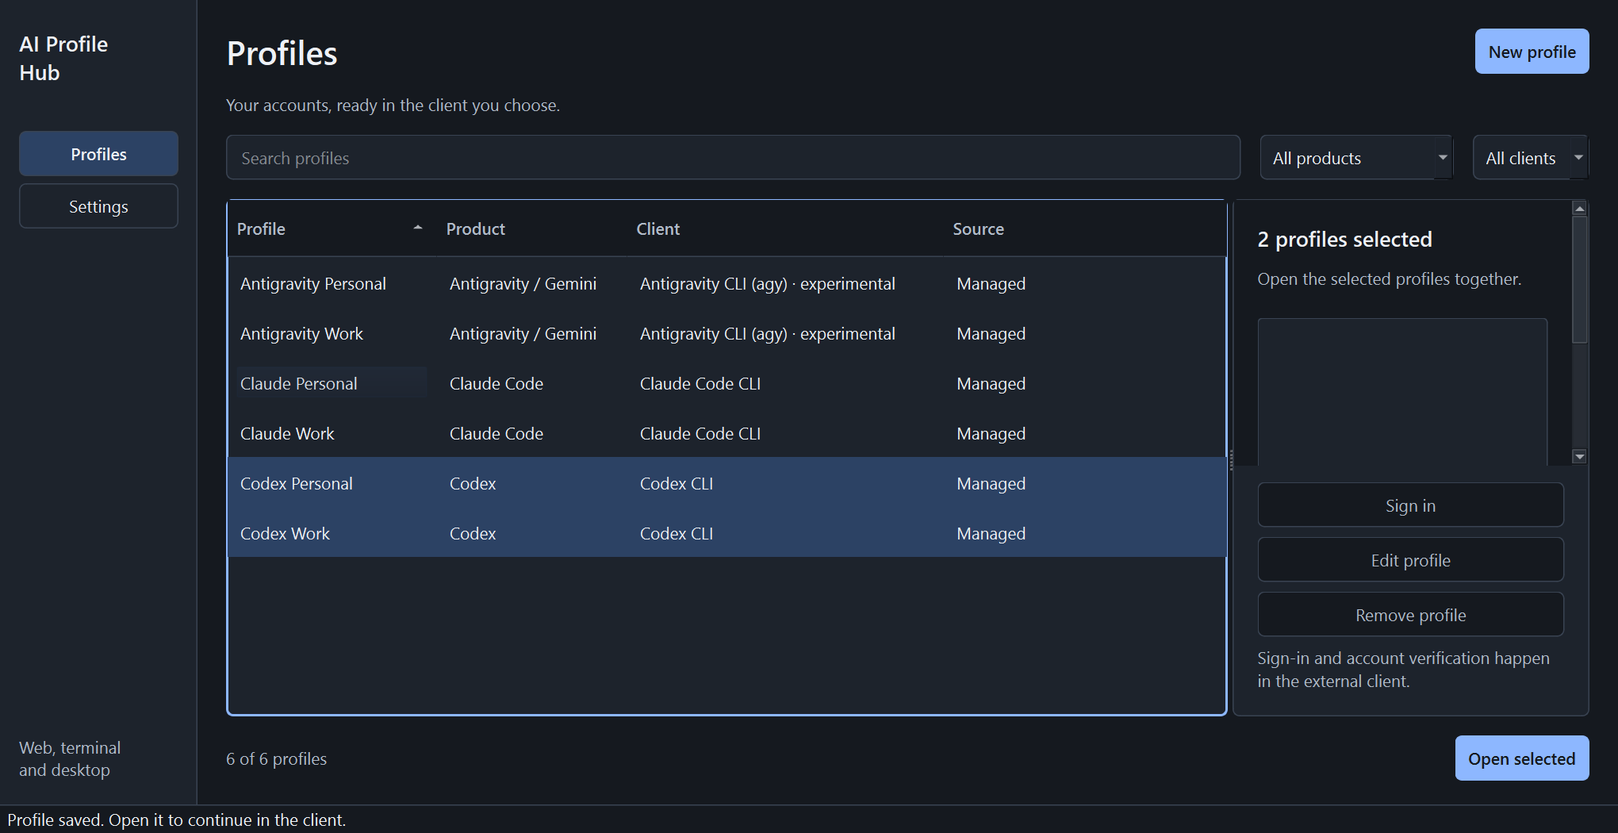
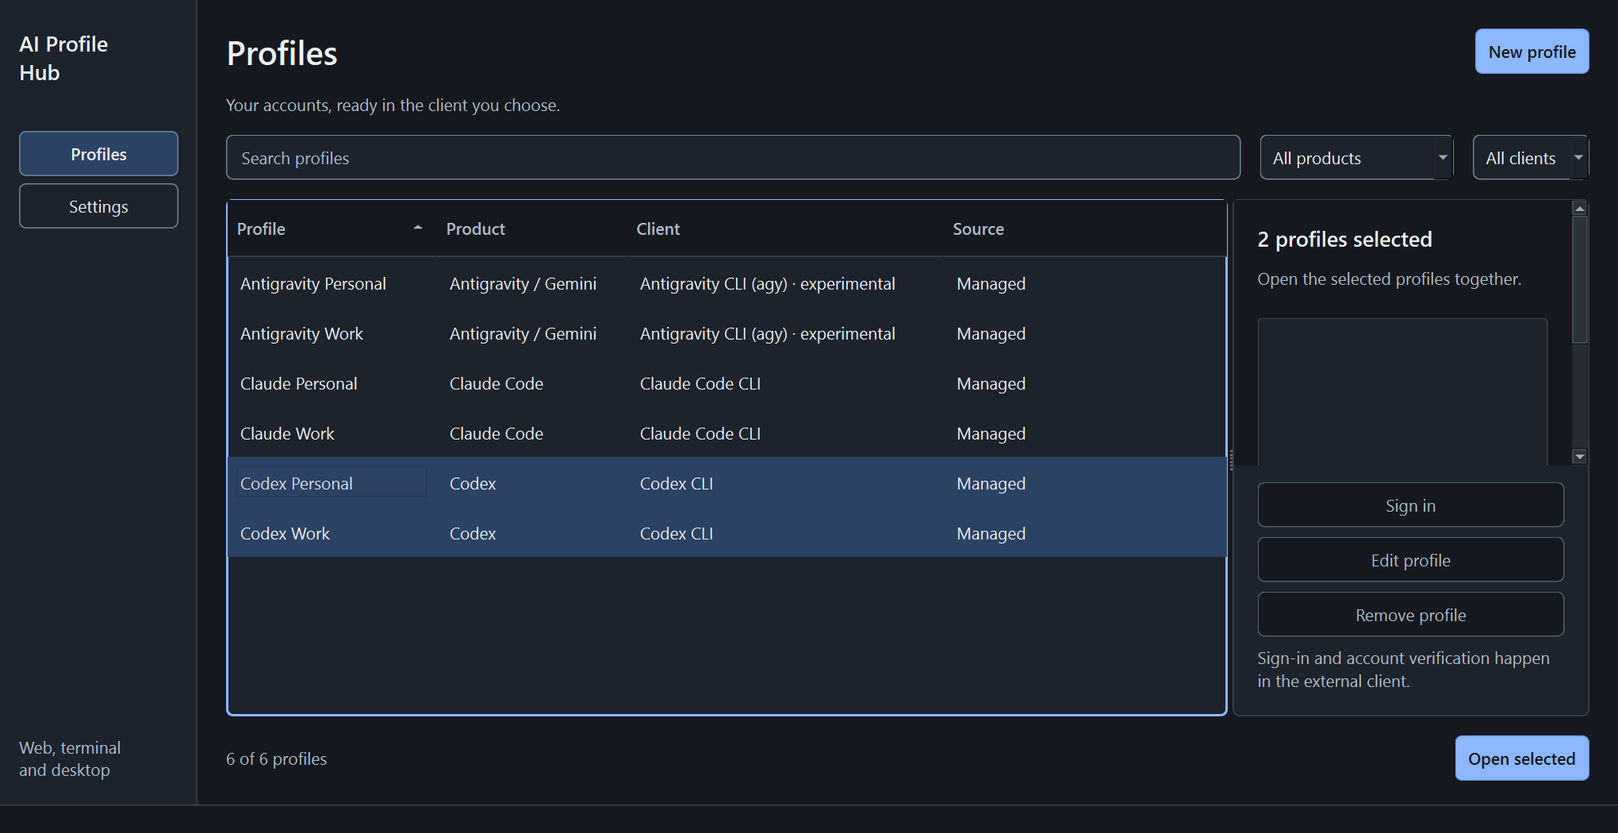
Align profile guides and refresh authentic screenshots

Changed region(s): [[0.0, 0.9752, 0.2162, 1.0], [0.1544, 0.1829, 0.2162, 0.2133]]

diff --git a/scripts/capture_ui.py b/scripts/capture_ui.py
@@ -27,6 +27,7 @@ EXAMPLES = (
 
 
 def capture(window, output, filename):
+    window.statusBar().clearMessage()
     QApplication.processEvents()
     if not window.grab().save(str(output / filename)):
         raise OSError(f'Could not save {filename}.')
@@ -83,11 +84,11 @@ def main():
                 selection.select(index, QItemSelectionModel.SelectionFlag.Select | QItemSelectionModel.SelectionFlag.Rows)
         if len(window.selection()) != 2:
             raise RuntimeError('Expected both Codex profiles to be selected.')
+        selection.setCurrentIndex(selection.selectedRows()[0], QItemSelectionModel.SelectionFlag.NoUpdate)
         capture(window, args.output, 'profiles-dark.png')
         overview_size = [window.width(), window.height()]
         window.show_settings()
         window.resize(1100, 520)
-        window.statusBar().clearMessage()
         capture(window, args.output, 'browser-settings-dark.png')
         (args.output / 'capture.json').write_text(json.dumps({
             'platform': sys.platform,

diff --git a/README.md b/README.md
@@ -1,8 +1,8 @@
 # AI Profile Hub
 
-AI Profile Hub is a desktop launcher for **Windows, macOS and Linux**. Create separate profiles for work and personal accounts in Anthropic's Claude Code, OpenAI's Codex and Google Antigravity / Gemini.
+AI Profile Hub is a desktop launcher for **Windows, macOS and Linux**. Use it to save and reopen work and personal profiles for Claude Code, Codex and Antigravity / Gemini. Pick a web, terminal or desktop client for each profile. You sign in and confirm the account in that client.
 
-![AI Profile Hub in Dark appearance with six saved profiles, one work and one personal profile for each of Claude Code, Codex and Antigravity.](docs/screenshots/profiles-dark.png)
+![AI Profile Hub in Dark appearance with six work and personal profiles. The two Codex profiles are selected.](docs/screenshots/profiles-dark.png)
 
 ## Quick start
 
@@ -28,30 +28,31 @@ On Windows you can double-click `run.cmd` after setup. On Linux, install the Qt 
 
 ## Set up two profiles
 
-Follow the [two-profile setup guide](docs/two-profiles.md) to create work and personal profiles for **Antigravity CLI**, **Codex CLI**, **Claude Code CLI** or a supported web client.
+Follow the [work and personal profile guide](docs/two-profiles.md) to create a pair for the same client and check both accounts after reopening them.
 
 ### Create and open any profile
 
-1. Choose **New profile**, pick a product and client, and enter a name such as **Work**. Under **Advanced settings**, leave the executable blank to let Hub find it, or set an absolute path for a terminal or desktop client. You can also set an existing working directory. Choose **Save profile**.
-2. Select the profile and choose **Open profile** or press Enter. For a web profile, sign in in the browser window that opens. For a terminal profile, choose **Sign in** or follow the client's sign-in instructions. The Codex CLI button uses device code authentication, which your account or workspace must allow. [Codex authentication](https://learn.chatgpt.com/docs/auth)
-3. For a desktop profile, close other instances of the same client before choosing **Sign in**. Verify the account in the new client window.
+1. In **Profiles**, choose **New profile**, select a product and client, and enter a name such as **Work**. For terminal and desktop clients, **Advanced settings** lets you set absolute paths for the executable and an existing working directory. Leave them blank for automatic detection and your home directory. Choose **Save profile**.
+2. Select the saved profile and choose **Open profile**, or press Enter when the list has focus. For a web profile, sign in in the browser window. For a terminal or desktop profile, select one row and choose **Sign in** in the profile details. Quit other instances of the same desktop client before starting its sign-in flow.
+3. Check the account or workspace in the client. After signing in, close the session and reopen it from Hub to check which account it kept.
 
 To open several profiles, hold Ctrl (Command on macOS) while selecting rows and choose **Open selected**.
 
 ## Manage profiles and browser settings
 
-- Search by profile, product or client name; combine product and client filters. **Clear filters** returns to the complete list.
-- Select a profile for its full name, source, session folder and client availability. In a compact window, choose **Details**. Client detection is cached for up to 30 seconds; **Refresh detection** checks again.
-- Use **Edit profile** to change the name or paths. Create a new profile to use a different product or client. Invalid values stay in the form with an explanation so you can correct and save them.
+- Search by profile, product or client name. Combine the product filter with the client type filter (**Web**, **Terminal**, **Desktop**). **Clear filters** returns to the complete list.
+- Select a profile for its full name, source, session folder and client availability. In a compact window, choose **Details**. After installing a client or changing its path, choose **Refresh detection** in the details to check again without waiting for the 30-second cache to expire.
+- Use **Edit profile** to change the name or paths. Create a new profile to use a different product or client. If a path fails validation, Hub opens **Advanced settings** and focuses the field to correct.
 - Close the associated windows or terminal before choosing **Remove profile**. The confirmation describes the local data removed. **Remove link** preserves the original Claude Desktop session folder. Your online account stays active.
 - Use **Settings → Choose Chrome or Chromium…** to set a browser executable. **Use auto-detection** clears the override, including when the saved executable is unavailable.
-- Choose **System**, **Light** or **Dark** appearance in Settings. Ctrl+N / Command+N creates a profile; Ctrl+F / Command+F focuses search; Enter in the list opens the selection.
-- During an operation you can continue searching and navigating. Failed batch launches list each affected profile with guidance; **Retry failed** retries only those entries. A launch request does not prove sign-in or account isolation.
+- Choose **System**, **Light** or **Dark** appearance in **Settings**. Use Ctrl+N (Command+N on macOS) to create a profile, Ctrl+F (Command+F on macOS) to focus search, and Tab or Shift+Tab to move between controls.
+- Launch results show which requests succeeded or failed. **Retry failed** repeats the last open or sign-in request for its failed profiles. The result reports the request to start the client. Confirm the actual account in the client window or terminal.
 
 ## Reuse existing profiles
 
-- **AI Profile Switch** uses the same local directory. On startup, AI Profile Hub updates the SQLite schema and reuses the existing profile IDs and folders. Existing Claude and ChatGPT web profiles still open their original websites. Create a separate profile for the new Claude Code and Codex destinations. To keep the option of returning to the earlier version, back up `profiles.sqlite3` before opening AI Profile Hub.
-- **Existing Claude Desktop session on Windows.** If Hub finds a previously configured session in `%LOCALAPPDATA%\ClaudeDesktopDuo\SecondProfile`, choose the prompt in **Profiles**, **New profile → Link existing Claude Desktop session…**, or **Settings → Link existing session…**. Review the detected folder and choose **Link session**. Hub opens that session in place and selects the existing link if you repeat the action. **Remove link** leaves the original session folder in place. [Claude Desktop](https://support.claude.com/en/articles/10065433-install-claude-desktop).
+On Windows, Hub can link a compatible Claude Desktop session. If **Claude Desktop session found. Link session…** appears in **Profiles**, choose it, review the folder shown, and choose **Link session**. You can also start from **Settings → Link existing session…**. **Remove link** preserves the original session folder.
+
+For the ChatGPT desktop app, Antigravity App and Antigravity IDE, create a profile for the installed client and sign in from its window. For desktop profiles, **Refresh detection** checks the executable and working directory.
 
 ## Available clients and limitations
 
@@ -59,7 +60,7 @@ To open several profiles, hold Ctrl (Command on macOS) while selecting rows and 
 | --- | --- | --- |
 | Claude Code | Claude Code on the web, Claude on the web | Claude Code CLI (`claude`), Claude Desktop † |
 | Codex | Codex on the web, ChatGPT on the web | Codex CLI (`codex`), ChatGPT desktop app † |
-| Antigravity / Gemini | Gemini on the web | Antigravity CLI (`agy`) †, Gemini CLI (`gemini`), Antigravity IDE †, Antigravity App † |
+| Antigravity / Gemini | Gemini on the web | Gemini CLI (`gemini`), Antigravity CLI (`agy`) †, Antigravity IDE †, Antigravity App † |
 
 † Experimental. Availability varies by operating system and provider. Desktop apps can ignore the profile directory, reuse a running instance or route sign-in through the operating system. Verify the account in each client window. [ChatGPT desktop app](https://learn.chatgpt.com/docs/app) · [Community Codex desktop workaround](https://github.com/phoem/Codex-Profile-Launcher) · [Antigravity download](https://antigravity.google/download) · [Antigravity IDE forum](https://discuss.ai.google.dev/t/how-do-user-data-dir-and-profile-work/137054)
 
@@ -71,7 +72,7 @@ To open several profiles, hold Ctrl (Command on macOS) while selecting rows and 
 - Local Google clients receive a dedicated process home, `GEMINI_CLI_HOME` and Cloud SDK directory. Inherited credential selectors are removed. An inherited Google gateway or custom-header override blocks launch with an explanation; ask your administrator to resolve managed configurations. System settings pointers remain available to the client. Google documents `~/.gemini/antigravity-cli/settings.json` and migration from Gemini CLI. Full `agy` authentication isolation still requires verification, including its shared keyring. See the [versioned authentication audit and limits](docs/google-authentication.md). [Gemini CLI](https://github.com/google-gemini/gemini-cli/blob/v0.68.0/docs/cli/enterprise.md) · [Antigravity CLI settings](https://antigravity.google/docs/cli/using/) · [Google migration guide](https://antigravity.google/docs/cli/gcli-migration)
 - On Windows, the launcher passes a dedicated profile folder to Claude Desktop. Update MSIX builds in the `2.42304.x` series, which can ignore this folder. Keeping one instance open for the first sign-in helps the browser return to the intended window. [MSIX issue](https://github.com/anthropics/claude-code/issues/103068)
 
-Profile data is stored under `%LOCALAPPDATA%\AIProfileSwitch` on Windows, `~/Library/Application Support/AI Profile Switch` on macOS and `~/.local/share/ai-profile-switch` on Linux. On Linux, an absolute `XDG_DATA_HOME` overrides `~/.local/share`. The launcher leaves authentication files under the client's control. Clients run as the same operating system user and can access the same projects and system services.
+To find a profile's session folder, select it and open **Details**. The launcher leaves authentication files under the client's control. Clients run as the same operating system user and can access the same projects and system services.
 
 ## Build and test
 

diff --git a/docs/two-profiles.md b/docs/two-profiles.md
@@ -1,22 +1,20 @@
 # Set up work and personal profiles
 
-Create two profiles in AI Profile Hub for the same client, then sign in with the corresponding account in each. Start with the [README setup](../README.md#quick-start) and install the client you want to use. To match the screenshots, choose **Settings → Appearance → Dark**.
+Create two profiles in AI Profile Hub for the same client, one for each account. Start with the [README setup](../README.md#quick-start). Install Chrome or Chromium for web profiles, or install the terminal or desktop client you choose.
 
 ## Create the pair
 
 1. Open **Profiles → New profile**. Choose the **Product** and **Client** shown for your provider below, then enter the example work name.
-2. Leave **Advanced settings** closed to use automatic client detection and the default working directory. Open it if you need to choose an executable or a working directory.
+2. For a terminal or desktop client, leave **Advanced settings** untouched to use automatic detection and your home directory. To use a different executable or working directory, enter its absolute path.
 3. Choose **Save profile**. Repeat with the same product and client and enter the personal name.
 
-## Google Antigravity
+## Browser profiles
 
-Set **Product** to **Antigravity / Gemini** and **Client** to **Antigravity CLI (agy) · experimental**. Save **Antigravity Work** and **Antigravity Personal**. [Install Antigravity CLI](https://antigravity.google/docs/getting-started).
+1. Choose the same web client for both profiles, such as **Codex on the web**, **Claude Code on the web** or **Gemini on the web**. Give each a distinct work or personal name.
+2. If Hub finds the wrong browser or cannot find one, use **Settings → Choose Chrome or Chromium…** to select the executable. **Use auto-detection** clears that choice.
+3. Select one profile, choose **Open profile** and sign in with the intended account. Repeat for the second profile. Hub opens each web profile with its own browser data directory.
 
-![Dark New profile form with Antigravity / Gemini, Antigravity CLI (agy), and Antigravity Personal selected.](screenshots/new-antigravity-profile-dark.png)
-
-Open each profile with **Open profile**. If Antigravity prompts for Google sign-in, select the intended Google account. Antigravity CLI can silently reuse a session from your operating system's keyring. If both profiles open under the same identity, treat that setup as sharing an account. For two browser sessions with separate Google sign-ins, choose **Gemini on the web** for both profiles. [Google Antigravity authentication](https://antigravity.google/docs/install/#local-silent-keyring-sign-in) · [Hub's Google client verification](google-authentication.md).
-
-For **Antigravity App** or **Antigravity IDE**, choose the corresponding client for both profiles. Quit the other instances before starting sign-in from Hub. Check the Google account in each client after reopening it. [Google Antigravity downloads](https://antigravity.google/download).
+![Dark Settings page showing Choose Chrome or Chromium and Use auto-detection.](screenshots/browser-settings-dark.png)
 
 ## OpenAI Codex
 
@@ -24,7 +22,7 @@ Set **Product** to **Codex** and **Client** to **Codex CLI**. Save **Codex Work*
 
 ![Dark New profile form with Codex, Codex CLI, and Codex Personal selected.](screenshots/new-codex-profile-dark.png)
 
-Select one profile and choose **Sign in**. Complete device-code sign-in in the browser with the intended ChatGPT account or workspace, then repeat for the other profile. If device-code sign-in is unavailable, choose **Open profile** and use the interactive sign-in flow if your workspace allows it. [Codex authentication](https://learn.chatgpt.com/docs/auth).
+Select one profile and choose **Sign in** in the profile details. This uses device-code sign-in, which must be enabled in your personal ChatGPT security settings or by your workspace admin. Complete sign-in, then repeat for the other profile. If device-code sign-in is unavailable, choose **Open profile** and follow the interactive sign-in flow if your workspace allows it. [Codex authentication](https://learn.chatgpt.com/docs/auth#preferred-device-code-authentication-beta).
 
 ## Anthropic Claude Code
 
@@ -32,20 +30,24 @@ Set **Product** to **Claude Code** and **Client** to **Claude Code CLI**. Save *
 
 ![Dark New profile form with Claude Code, Claude Code CLI, and Claude Personal selected.](screenshots/new-claude-profile-dark.png)
 
-Select the work profile, choose **Sign in**, and complete the Claude Code sign-in flow for your work account. Repeat for the personal profile with your personal account. In each Claude Code session, use `/status` to check the account. [Claude Code authentication](https://code.claude.com/docs/en/authentication) · [Claude Code commands](https://support.claude.com/en/articles/14553413-claude-code-cheatsheet).
+Select the work profile, choose **Sign in** in the profile details and complete the Claude Code sign-in flow for your work account. Repeat for the personal profile with your personal account. In each Claude Code session, use `/status` to check the account. [Claude Code authentication](https://code.claude.com/docs/en/authentication) · [Claude Code commands](https://support.claude.com/en/articles/14553413-claude-code-cheatsheet).
+
+## Google Antigravity / Gemini
+
+For **Gemini CLI**, select **Antigravity / Gemini** as the product and **Gemini CLI** as the client. Save **Gemini Work** and **Gemini Personal**. Open each profile and follow Gemini CLI's sign-in prompts. Check which account the client uses after restarting each profile. [Google authentication audit](google-authentication.md).
+
+For **Antigravity CLI (agy) · experimental**, save **Antigravity Work** and **Antigravity Personal** and choose **Open profile** for each. If Antigravity prompts for Google sign-in, select the intended account. Antigravity can silently reuse a session from the operating system's keyring. If both profiles open under the same identity, use two **Gemini on the web** profiles for separate browser sign-ins. [Install Antigravity CLI](https://antigravity.google/docs/getting-started) · [Google Antigravity authentication](https://antigravity.google/docs/install/#local-silent-keyring-sign-in).
+
+![Dark New profile form for Antigravity Personal, with the experimental Antigravity CLI selected.](screenshots/new-antigravity-profile-dark.png)
+
+## Experimental desktop profiles
+
+Choose the same desktop client for both profiles. Hub offers **Claude Desktop**, **ChatGPT desktop app**, **Antigravity IDE** and **Antigravity App**. Quit other instances of that client, select one profile and choose **Sign in**. Complete sign-in in the client window. Quit the client before repeating the process for the second profile. [Desktop client limitations](../README.md#available-clients-and-limitations).
+
+For ChatGPT and Antigravity, start with **New profile** even if you already use the desktop app. If Hub cannot find the installed client, set its executable under **Advanced settings**. On Windows, Hub can [link a compatible Claude Desktop session](../README.md#reuse-existing-profiles).
 
 ## Check both accounts
 
-Close each client session, reopen each profile individually from Hub, and confirm the account or workspace in the client. The names in Hub label the saved profiles. You verify the account in the external client.
+Close both sessions. Reopen the work profile by itself and confirm the account or workspace in the client. Close it, reopen the personal profile and check that identity too. A profile name is the label you entered. The client window or terminal shows the account in use.
 
-For an experimental desktop pair, choose **ChatGPT desktop app** or **Claude Desktop** for both profiles and complete sign-in with one instance open at a time. [ChatGPT desktop app](https://learn.chatgpt.com/docs/app) · [Claude Desktop](https://support.claude.com/en/articles/10065433-install-claude-desktop).
-
-## Use two browser profiles
-
-1. Install Chrome or Chromium. Hub detects it automatically. If detection fails or opens a different installation, go to **Settings → Choose Chrome or Chromium…** and select the browser executable. **Use auto-detection** clears that choice.
-2. Create two profiles with the same web client, such as **Codex on the web**, **Claude Code on the web** or **Gemini on the web**. Give each a distinct work or personal name.
-3. Open each profile and sign in to the intended account in its own window. Close both windows, reopen each profile individually and check the identity in the web app.
-
-![Dark Settings page showing the Chrome or Chromium picker and the auto-detection button.](screenshots/browser-settings-dark.png)
-
-The [six-profile overview in the README](../README.md#ai-profile-hub) and the screenshots above were captured from the Windows Qt app with synthetic profiles. [Reproduce the captures](verification.md#reproduce).
+The [six-profile overview in the README](../README.md#ai-profile-hub) and the screenshots above were captured from the Windows Qt app with synthetic profiles in **Dark** appearance. [Reproduce the captures](verification.md#reproduce).

diff --git a/docs/verification.md b/docs/verification.md
@@ -1,6 +1,20 @@
 # Unified desktop verification
 
-## Observed on Windows
+## Windows verification at `97adcd4`
+
+On 2026-11-15, a clean Windows clone at `97adcd4` passed the setup and verification commands below with Python 3.13.17, PySide6 6.10.1 and Nuitka 2.8.9.
+
+| Command | Result |
+| --- | --- |
+| `py -3 -m venv .venv` and `python -m pip install -r requirements.txt` using the virtual environment | Environment created and runtime dependencies installed. |
+| `run.cmd --smoke-test` | GUI opened and closed successfully and created a fresh SQLite database in a synthetic data directory. |
+| `python -m pip install -r requirements-dev.txt` | Development dependencies installed. |
+| `python -m pytest -q --junitxml=dist/evidence/tests.xml` | `49 passed, 14 subtests passed in 16.82s` |
+| `python scripts/capture_ui.py` | Produced five PNGs and `capture.json` from the Windows Qt app with synthetic profiles. |
+| `setup.cmd` | Built standalone package `20261115T115514Z-38d5a9`. |
+| `python scripts/smoke_package.py` | `Native package smoke passed.` Help, GUI startup and the synthetic bundled CLI session all exited successfully. |
+
+## Earlier Windows checks
 
 On 2026-11-14, a clean checkout at `231554f` passed the README setup and build steps with Python 3.13.17, PySide6 6.10.1 and Nuitka 2.8.9. Source startup used `run.cmd --smoke-test` with a synthetic data directory. The test suite reported `36 passed in 9.44s`. The native build, package smoke test and capture command succeeded. The capture produced 11 PNGs at a device pixel ratio of 1.5.
 
@@ -17,7 +31,7 @@ Local reports, native packages, screenshot matrices and synthetic databases are 
 
 ## Automated coverage and remaining qualification
 
-The CI configuration runs tests on Python 3.11 / 3.13 for Windows, macOS and Linux, and native builds/package smoke tests on 3.13. Qt tests use the offscreen platform in CI. Manual qualification run `43611594432` used workflow revision `231554f` to check out application source `341e1c7`: all six jobs passed 36 tests each, and all three native package smoke steps passed. Push run `43611594501` for `231554f` passed the same checks. These successful results were observed before the historical runs were removed; local summaries remain in ignored `dist/ci-verification/`. Subsequent authentication and pytest changes have local Windows verification; those earlier runs do not qualify the newer changes.
+The [CI workflow](../.github/workflows/test.yml) runs tests on Python 3.11 and 3.13 for Windows, macOS and Linux, and native builds and package smoke tests on 3.13. Qt tests use the offscreen platform. Manual qualification run `43611594432` used workflow revision `231554f` and application source `341e1c7`. All six jobs passed 36 tests each, and all three native package smoke steps passed. Push run `43611594501` for `231554f` passed the same checks. The historical runs were removed after the results were recorded. Local summaries remain in ignored `dist/ci-verification/`.
 
 Native macOS/Linux interactive operation remains unqualified. CI verifies package compilation and offscreen startup, while terminal behavior, Qt dialogs, theme changes and keyboard shortcuts still require interactive checks on the actual systems. The baseline 36 tests also passed locally on Python 3.11.18 on Windows.
 
@@ -51,7 +65,7 @@ On macOS and Linux, use the shell launcher and the virtual environment's Python.
 
 The source smoke test opens and closes the GUI. It uses the normal profile data directory, so run it with a fresh data directory if you want to avoid migrating an existing database. The capture script creates a fresh synthetic store under `dist/visual-fixture/` and saves Dark screenshots of each provider's new-profile form, the six-profile overview and browser settings. It writes the PNGs and `capture.json` to `dist/evidence/ui/` by default. Use `--output` to choose a separate folder. `QT_SCALE_FACTOR` multiplies native display scaling. Read the resulting device pixel ratio in `capture.json`.
 
-The browser settings screenshot was captured on Windows on 2026-11-15 from the Qt application at `5ea95fb` using the updated capture script. It shows the browser picker and auto-detection with a synthetic store at a device pixel ratio of 1.5.
+The five screenshots in the README and work/personal guide were captured on Windows on 2026-11-15 from AI Profile Hub at `97adcd4`, using a synthetic store and Dark appearance at a device pixel ratio of 1.5. The six-profile overview is 2040 × 1050 pixels, the three new-profile forms are 1650 × 900 pixels, and the browser settings screen is 1650 × 840 pixels. The PNGs were compressed without changing pixels.
 
 On a headless Linux runner, use `QT_QPA_PLATFORM=offscreen` for Qt tests and smoke checks. Use the native Qt platform plugin for interactive validation. The saved macOS and Linux CI runs cover dependency installation, unit tests, the launcher help, builds and offscreen package smoke checks. The source GUI smoke and capture commands above were rerun on Windows for this guide.
 
